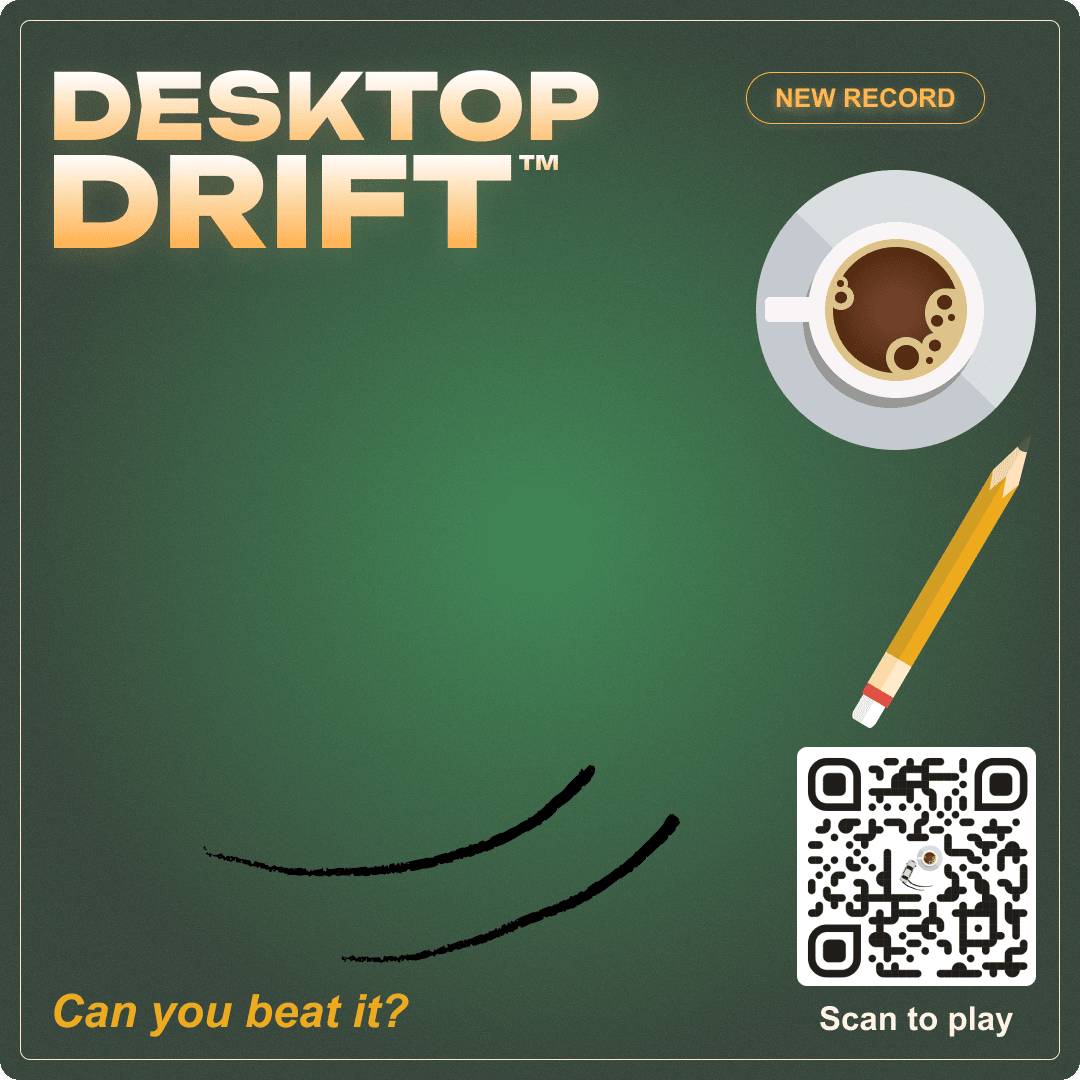
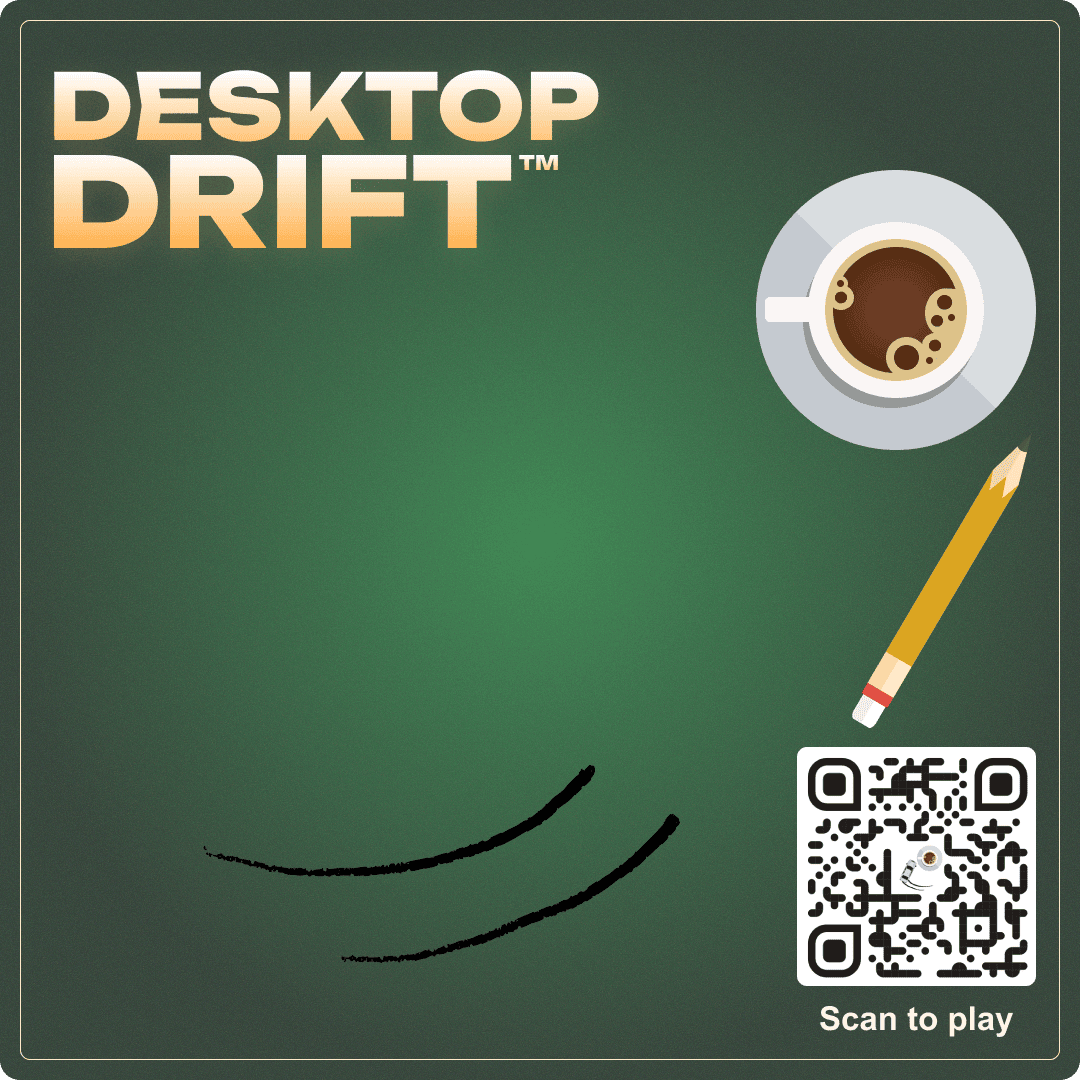
feat(share): render NEW RECORD / hook / 1-PPS medal dynamically on the card
Owner removed the baked "New record" and "Can you beat it?" from the template so
they can be conditional. Now rendered by share-card.js in-style:
- NEW RECORD amber pill (top-right) only when isNewRecord (threaded from
  race-results lastResult).
- Bottom-left hook: "Can you repeat it?" on a 1-PPS Participation Trophy
  (economy.isOnePps), else "Can you beat it?".
- 🏅 medal above the PPS on a 1-PPS run — mirrors the DDK crown (mutually
  exclusive: 1 vs 600+ PPS).
New CARD layout entries (newRecord/hook/medal) in share-util. Updated template
synced docs/promo/assets → share/. 310/310 tests, verified in-browser. Cache v211.

diff --git a/js/share-card.js b/js/share-card.js
@@ -4,6 +4,7 @@
 import { CARS } from './config.js';
 import { drawCarPreview } from './car-preview.js';
 import { preloadEmotion } from './emotion-overlay.js';
+import { isOnePps } from './economy.js';
 import { CARD, litStars } from './share-util.js';
 
 // Template resolved from this module's URL so it works from any page. Cached after first load.
@@ -67,7 +68,8 @@ const crown = (ctx, cx, y, s) => {
 // Draw the full card. `data` = { pps, ddk, trackName, bestLap, carModel, look }. Async: waits for
 // the display font + the template image. Sizes the canvas to the card and returns it.
 export const renderShareCard = async (canvas, data) => {
-  const { pps, ddk, trackName, reversed, bestLap, carModel, look } = data;
+  const { pps, ddk, isNewRecord, trackName, reversed, bestLap, carModel, look } = data;
+  const onePps = isOnePps(pps);   // Participation Trophy — the 🏅 + "repeat it?" gag
   canvas.width = CARD.w; canvas.height = CARD.h;
   const ctx = canvas.getContext('2d');
 
@@ -101,8 +103,15 @@ export const renderShareCard = async (canvas, data) => {
   const ppsW = ctx.measureText('PPS').width;
   ctx.restore();
 
-  // DDK crown over the PPS label.
+  // DDK crown over the PPS label (600+ PPS) — or the Participation Trophy 🏅 at exactly 1 PPS. The two
+  // are mutually exclusive (1 vs 600+), so they share the spot above the PPS label.
   if (ddk) { ctx.fillStyle = CARD.crown.color; crown(ctx, ppsX + ppsW / 2, CARD.score.baseY - CARD.score.ppsSize + CARD.crown.dy, CARD.crown.size / 2); }
+  else if (onePps) {
+    ctx.save(); ctx.textAlign = 'center'; ctx.textBaseline = 'alphabetic';
+    ctx.font = `${CARD.medal.size}px sans-serif`;
+    ctx.fillText('🏅', ppsX + ppsW / 2, CARD.score.baseY - CARD.score.ppsSize + CARD.medal.dy);
+    ctx.restore();
+  }
 
   // Stars — 5, lit by score.
   const lit = litStars(pps);
@@ -121,6 +130,28 @@ export const renderShareCard = async (canvas, data) => {
   ctx.fillText(name, CARD.track.x, CARD.track.nameY);
   ctx.fillStyle = CARD.track.lapColor; ctx.font = `700 ${CARD.track.lapSize}px system-ui`;
   ctx.fillText(bestLap != null ? `Best lap ${bestLap.toFixed(2)} s` : '', CARD.track.x, CARD.h - CARD.track.lapFromBottom);
+  ctx.restore();
+
+  // NEW RECORD badge (top-right pill) — only on a personal best.
+  if (isNewRecord) {
+    const nr = CARD.newRecord;
+    ctx.save();
+    ctx.font = `800 ${nr.size}px Unbounded`; ctx.letterSpacing = `${nr.spacing}px`;
+    const label = 'NEW RECORD', tw = ctx.measureText(label).width;
+    const pillW = tw + nr.padX * 2, pillH = nr.size + nr.padY * 2;
+    const right = CARD.w - nr.fromRight, left = right - pillW, top = nr.cy - pillH / 2;
+    ctx.strokeStyle = nr.color; ctx.lineWidth = 3;
+    ctx.beginPath(); ctx.roundRect(left, top, pillW, pillH, nr.radius); ctx.stroke();
+    ctx.fillStyle = nr.color; ctx.textAlign = 'left'; ctx.textBaseline = 'middle';
+    ctx.fillText(label, left + nr.padX, nr.cy + 1);
+    ctx.restore();
+  }
+
+  // Hook (bottom-left, italic) — "Can you repeat it?" on a 1-PPS Participation Trophy, else "Can you beat it?".
+  ctx.save(); ctx.shadowColor = 'rgba(0,0,0,0.3)'; ctx.shadowBlur = 8; ctx.shadowOffsetY = 2;
+  ctx.textAlign = 'left'; ctx.textBaseline = 'alphabetic';
+  ctx.fillStyle = CARD.hook.color; ctx.font = `italic 800 ${CARD.hook.size}px Unbounded`;
+  ctx.fillText(onePps ? 'Can you repeat it?' : 'Can you beat it?', CARD.hook.x, CARD.h - CARD.hook.fromBottom);
   ctx.restore();
 
   return canvas;

diff --git a/js/share-util.js b/js/share-util.js
@@ -5,16 +5,20 @@
 export const SHARE_URL = 'https://letulip.github.io/DesktopDrift/';
 
 // Score-card layout. The card is a 1080×1080 template PNG (green table, wordmark, coffee/pencil,
-// drift trails, baked QR, "Can you beat it?"); these anchors place the DYNAMIC layer on top.
-// Left texts are absolute from the left edge; the car anchors its RIGHT rear corner to the edges.
+// drift trails, baked QR); these anchors place the DYNAMIC layer on top. The "NEW RECORD" badge and
+// the "Can you beat/repeat it?" hook are now rendered here (removed from the template) so they can be
+// conditional. Left texts are absolute from the left edge; the car anchors its RIGHT rear corner.
 export const CARD = {
   w: 1080, h: 1080,
   car:   { rot: -1.082, bodyW: 140, rearFromRight: 398, rearFromBottom: 220 },  // ~28° off vertical; body scaled to 140px wide
   score: { x: 54, baseY: 470, numSize: 156, ppsSize: 66, gap: 22, color: '#ffffff', ppsColor: '#ffb14d' },
   crown: { size: 80, dy: -34, color: '#ffc840' },                               // above the PPS label; drawn only at 600+ PPS (DDK)
+  medal: { dy: -8, size: 96 },                                                   // 🏅 above the PPS label; only on a 1-PPS Participation Trophy
   stars: { x: 54, y: 545, size: 32, gap: 76, color: '#ffc840', dimColor: 'rgba(255,255,255,0.24)' },
   track: { x: 54, labelY: 848, nameY: 903, lapFromBottom: 128, labelSize: 20, nameSize: 46, lapSize: 28,
            maxW: 700, labelColor: '#cdb98f', nameColor: '#ffffff', lapColor: '#e6d9b8' },
+  newRecord: { fromRight: 56, cy: 96, size: 23, padX: 26, padY: 16, radius: 30, spacing: 2, color: '#ffc840' },  // top-right pill, only on a new record
+  hook: { x: 54, fromBottom: 262, size: 42, color: '#ffb14d' },                  // bottom-left italic; "repeat it?" at 1 PPS else "beat it?"
 };
 
 // Number of lit stars for a run: 1 per 100 PPS, capped at 5 (mirrors the results screen).

diff --git a/js/race-results.js b/js/race-results.js
@@ -109,7 +109,7 @@ export const createRaceResults = () => {
     overlay.querySelector('#rr-best').textContent =
       bestLap != null ? `Best lap  ${bestLap.toFixed(2)} s` : '';
 
-    lastResult = { pps, ddk, trackName, reversed, bestLap, carModel, look };
+    lastResult = { pps, ddk, isNewRecord, trackName, reversed, bestLap, carModel, look };
     overlay.classList.add('show');
   };
 

diff --git a/sw.js b/sw.js
@@ -1,6 +1,6 @@
 // Desktop Drift — Service Worker
 // Cache version: bump this string to force all clients to re-download assets.
-const CACHE = 'desktop-drift-v210';
+const CACHE = 'desktop-drift-v211';
 
 // Build absolute URLs relative to this SW's own location so the same file
 // works on http://localhost:8777/ and https://letulip.github.io/DesktopDrift/
